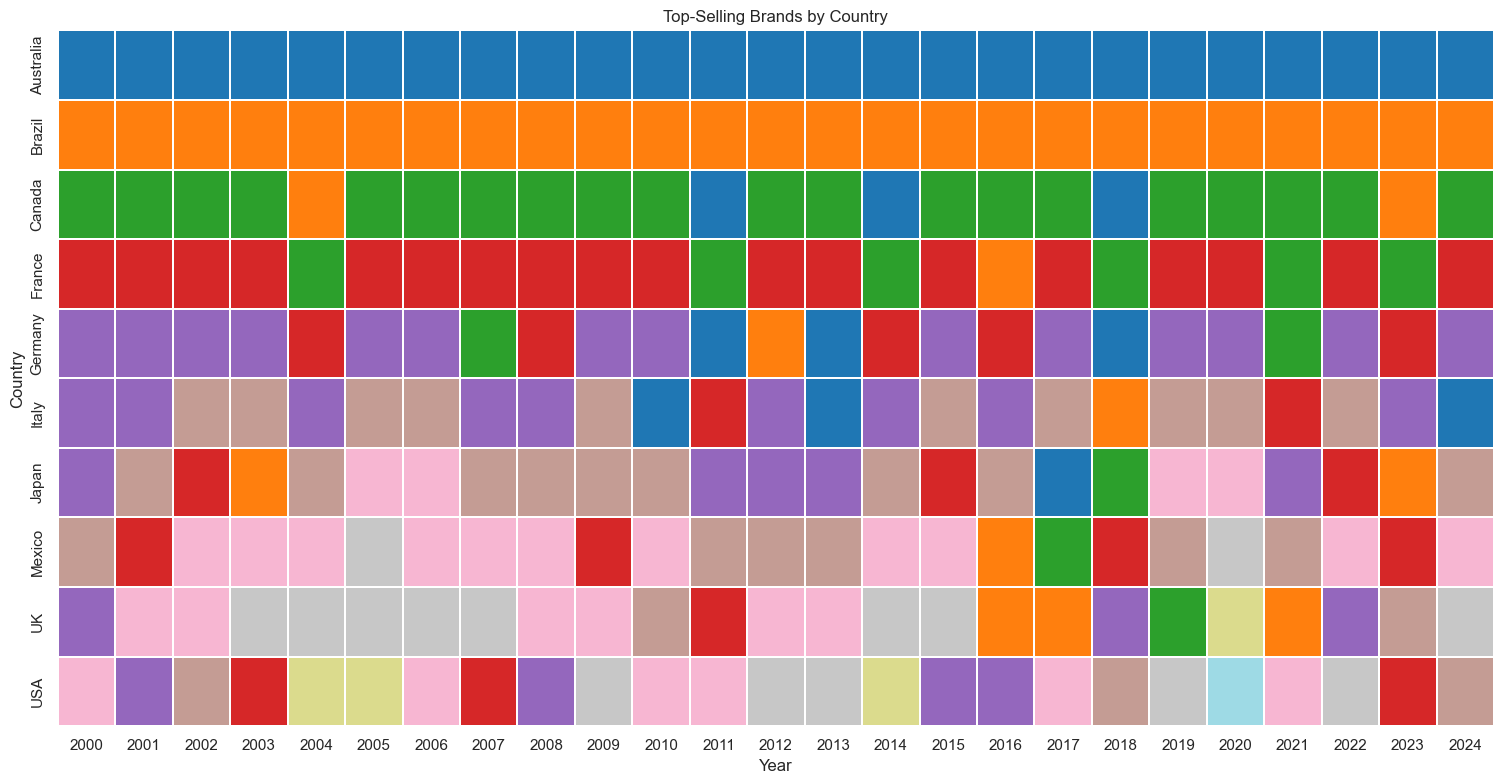
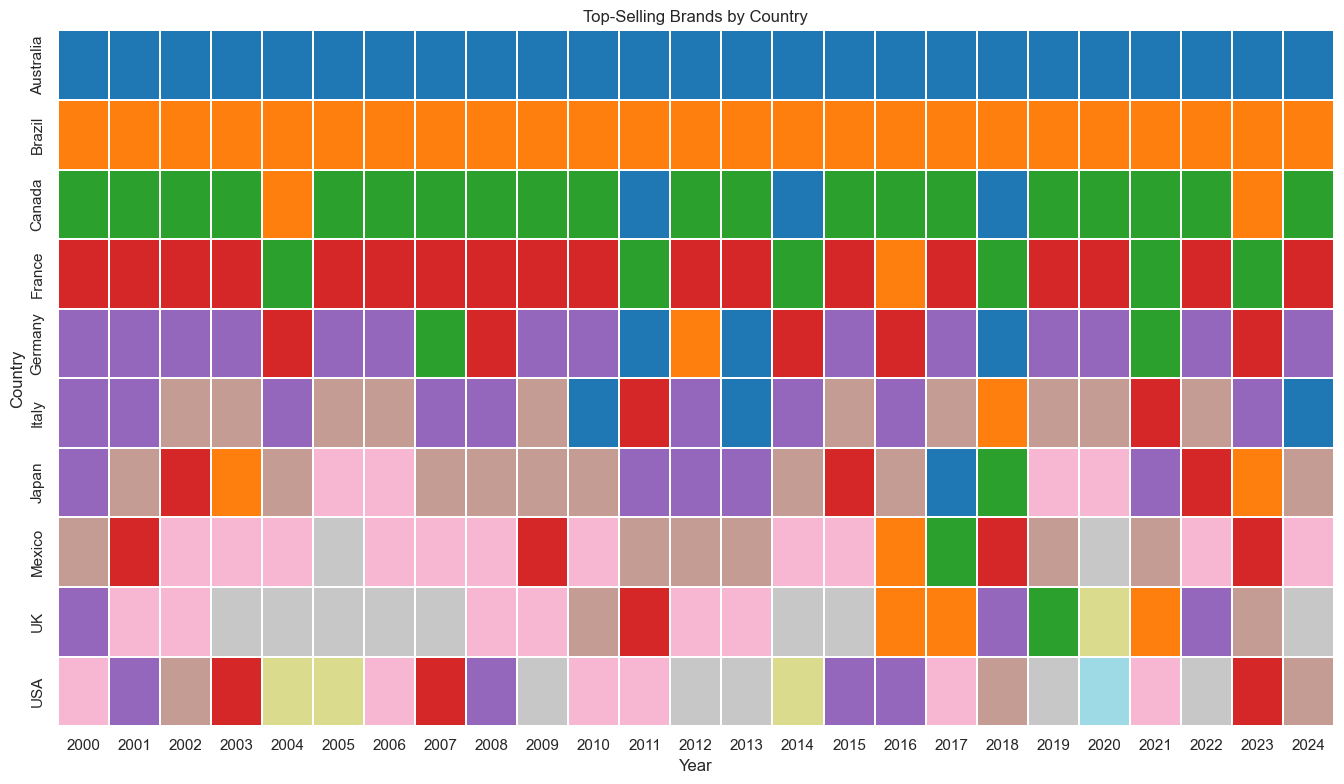
commit

diff --git a/plotting.py b/plotting.py
@@ -19,7 +19,7 @@ def plot_heatmap(top_per_country_year):
     plt.title("Top-Selling Brands by Country")
     plt.xlabel("Year")
     plt.ylabel("Country")
-    plt.tight_layout(rect=[0, 0, 0.95, 1])
+    plt.tight_layout(rect=[0, 0, 0.85, 1])
     plt.savefig("output/top_brand_heatmap.png", bbox_inches='tight')
     plt.show()
     plt.close()

diff --git a/readme.md b/readme.md
@@ -2,55 +2,53 @@
 
 Analyze and visualize trends in a large synthetic car sales dataset. This project provides a modular pipeline for data cleaning, insight extraction, and visualization, enabling you to explore car sales patterns, compare brands, and predict future sales.
 
----
-
 ## Visualization
 
 <table><tr><td>
       <h3 align="center">Global Top Brand</h3>
+      <i>Bar chart showing which brand was the top seller in the most countries for each year.</i><br><br>
       <img width="auto" src="output\global_top_brand.png">
     </td><td>
-      <h3 align="center">Sales Comparison</h3> 
+      <h3 align="center">Sales Comparison</h3>
+      <i>Bar chart comparing sales of selected brands across years in chosen countries.</i><br><br>
       <img width="auto" src="output\sales_comparison.png">  </td>
   </tr>
     <tr><td>
       <h3 align="center">Top Selling Brand</h3>
+      <i>Line plot showing the top-selling brand in a specific country over time.</i><br><br>
       <img width="auto" src="output\top_selling_brand_usa.png">
     </td><td>
-      <h3 align="center">Future Prediction</h3>
+      <h3 align="center">Heatmap of Top Brands</h3>
+      <i>Heatmap visualizing the top brand for each country and year.</i><br><br>
       <img width="auto" src="output\usa_toyota_2025_prediction.png">
     </td></tr>
 </table>
-
----
+  <h3 align="center">Future Prediction</h3>
+  <i>Bar chart showing historical sales and predicted sales for a brand/country/year using linear regression.</i><br><br>
+  <img width="auto" src="output\usa_toyota_2025_prediction.png">
 
 ## Features
 
-- **Data Cleaning:** Standardizes and aggregates raw sales data for analysis.
-- **Insight Extraction:** Find top brands by country/year, global leaders, and sales totals.
-- **Visualization:** Generate heatmaps, bar charts, line plots, and prediction plots.
-- **Sales Prediction:** Predict future sales for a brand in a country using linear regression.
-- **Customizable:** Easily change countries, brands, and years for your analysis.
+- **Data Cleaning:** Standardizes and aggregates raw sales data for analysis
+- **Insight Extraction:** Find top brands by country/year, global leaders, and sales totals
+- **Visualization:** Generate heatmaps, bar charts, line plots, and prediction plots
+- **Sales Prediction:** Predict future sales for a brand in a country using linear regression
+- **Customizable:** Easily change countries, brands, and years for your analysis
 
----
+## Project Structure
 
-## Directory Structure
-
-```
+```bash
 .
-├── dataset.py         # Script to download the dataset from KaggleHub
-├── dataset/           # Folder for all CSV files
-│   └── car_sales_dataset_with_person_details.csv  # (Downloaded dataset)
-├── data_utils.py      # Data loading and cleaning functions
-├── insights.py        # Data querying and insight functions 
-├── plotting.py        # All plotting functions
-├── main.py            # Main script       
-├── output/            # Folder for generated plots
+├── dataset.py                     # Script to download the dataset from KaggleHub
+├── dataset/                       # Folder for all CSV files
+├── data_utils.py                  # Data loading, cleaning functions, standardizing columns, aggregating sales
+├── insights.py                    # Functions to extract insights
+├── plotting.py                    # All plotting functions
+├── main.py                        # Main script       
+├── output/                        # Folder for all generated plots
 ```
 
----
-
-## Getting Started
+## Setup
 
 ### 1. Clone the Repository
 
@@ -61,23 +59,17 @@ cd CarSalesPipeline
 
 ### 2. Install Requirements
 
-Install all dependencies with:
-
 ```bash
 pip install pandas matplotlib seaborn kagglehub scikit-learn
 ```
 
 ### 3. Download the Dataset
 
-Run the following to download the dataset from KaggleHub:
-
 ```bash
 python dataset.py
 ```
 
-This will download the dataset and print the file path. The CSV will be placed in the `dataset/` folder.
-
----
+This will download the dataset from KaggleHub and print the file path. Then the CSV file should be manualy placed in the `dataset/` folder.
 
 ## How to Use
 
@@ -95,10 +87,9 @@ PREDICT_YEAR = 2025
 TOTAL_SALES_YEAR = 2024
 ```
 
-### 2. Select the Insights/Plots to Run
+### 2. Select Insights/Plots to Run
 
-In `main.py`, comment or uncomment the function calls to run only the analyses or plots you need.
-Each block is independent and can be enabled/disabled as needed.
+In `main.py`, comment or uncomment the function calls to run only the analyses or plots you need. Each block is independent and can be enabled/disabled as needed.
 
 ### 3. Run the Main Script
 
@@ -108,57 +99,21 @@ python main.py
 
 This will generate the selected plots (saved in `output/`) and print insights to the console.
 
----
-
 ## Example Analyses
 
-- Compare sales for selected countries, brands, and years.
-- Show total sales for a specific brand/country/year.
-- Visualize the global top brand by number of countries each year.
-- Heatmap of top brands by country and year.
-- Trend of top-selling brands in a specific country.
-- Predict future sales for a brand in a country for a specific year (using linear regression).
-
----
+- Compare sales for selected countries, brands, and years
+- Show total sales for a specific brand/country/year
+- Visualize the global top brand by number of countries each year
+- Heatmap of top brands by country and year
+- Trend of top-selling brands in a specific country
+- Predict future sales for a brand in a country for a specific year (using linear regression)
 
 ## Customization
 
-- To analyze different countries, brands, or years, change the lists in `main.py`.
-- To generate different plots, comment or uncomment the relevant function calls in `main.py`.
-- All plots are saved in the `output/` directory for easy access.
-
----
-
-## File Descriptions
-
-- `dataset.py` : Downloads the dataset from KaggleHub.
-- `data_utils.py` : Loads and cleans the raw dataset, standardizing columns and aggregating sales.
-- `insights.py` : Provides functions to extract insights (top brands, global leaders, sales totals, predictions).
-- `plotting.py` : Contains all plotting functions (heatmaps, bar charts, line plots, prediction plots).
-- `main.py` : The main entry point. Edit this file to select and run your desired analyses.
-- `dataset/` : Stores the raw and cleaned CSV files.
-- `output/` : Stores all generated plots.
-
----
-
-## Requirements
-
-- Python 3.7+
-- pandas
-- matplotlib
-- seaborn
-- kagglehub
-- scikit-learn
-
----
+- To analyze different countries, brands, or years, change the lists in `main.py`
+- To generate different plots, comment or uncomment the relevant function calls in `main.py`
+- All plots will be saved in the `output/` directory for easy access
 
 > [!Note]
-> All plots are saved in the `output/` directory. <br>
-> Code is modular; data loading, insights, and plotting are separated for clarity and maintainability. <br>
-> Dataset is synthetic and intended for demonstration and educational purposes. <br>
-
----
-
-## License
-
-This project is for educational and demonstration purposes only.
+> Code is modular; data loading, insights, and plotting are separated for clarity and maintainability <br>
+> Dataset is synthetic and intended for demonstration and educational purposes <br>
